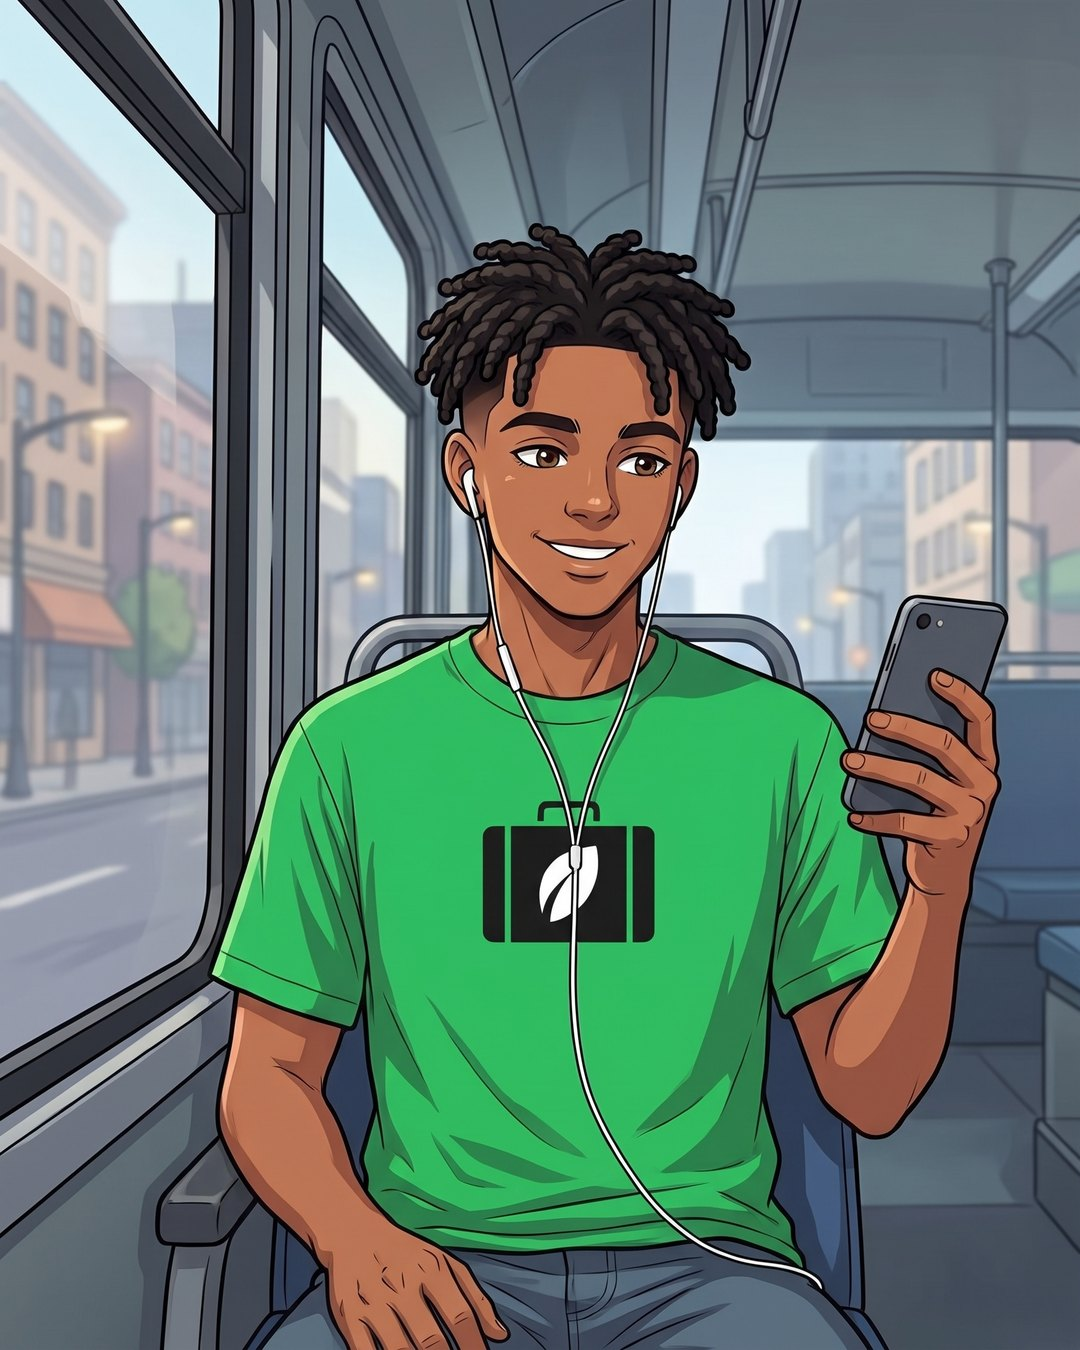
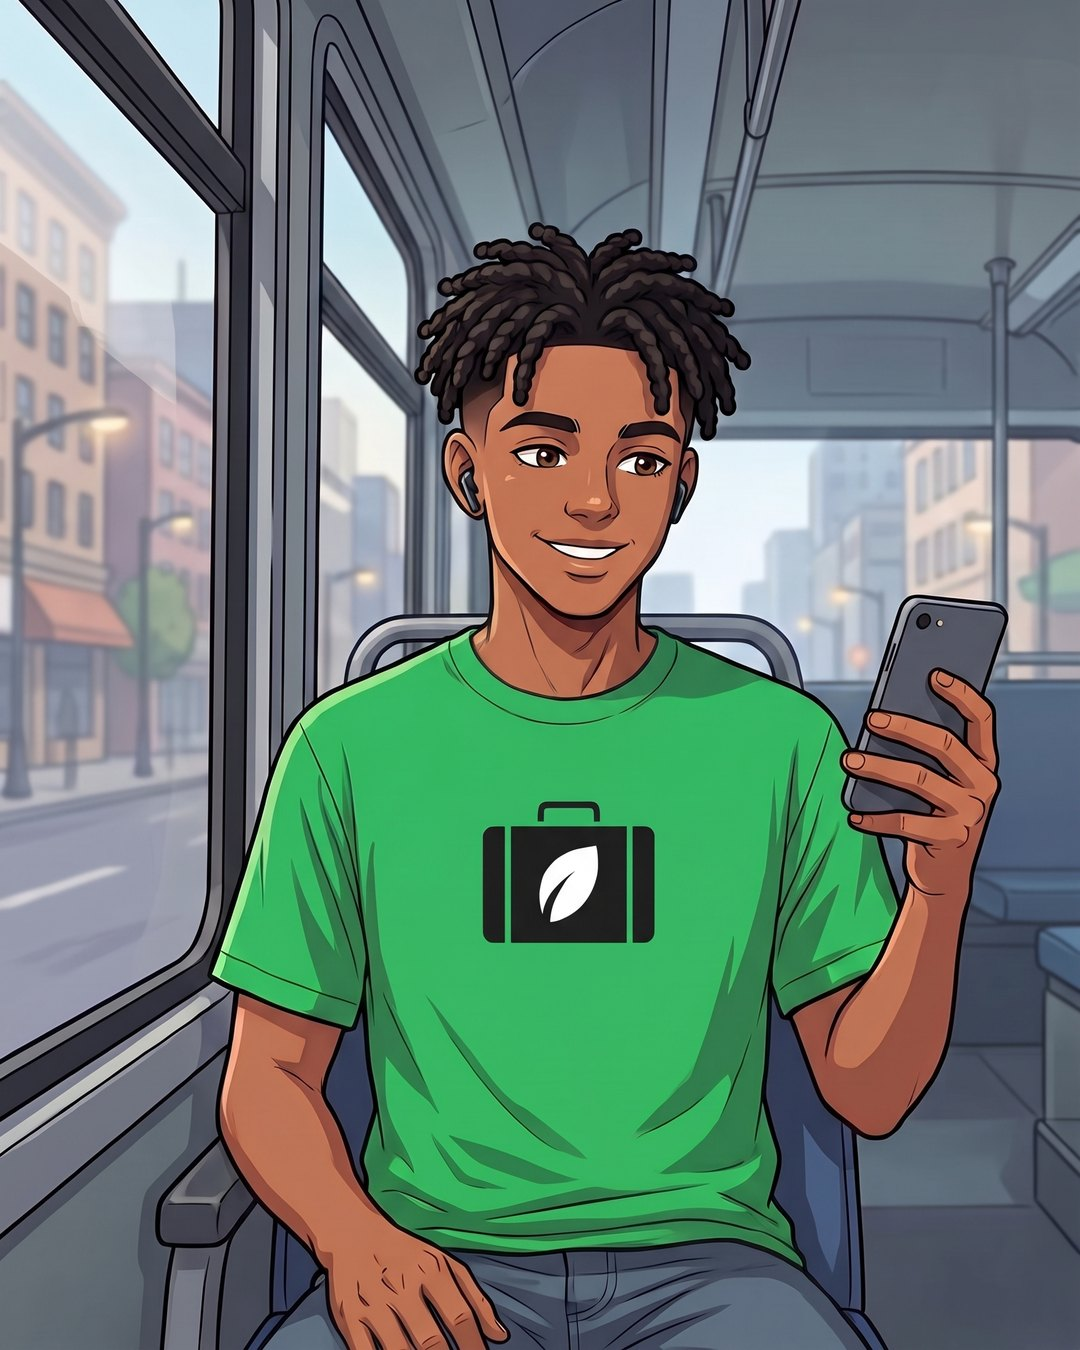
Founding 3: River on the bus with wireless earbuds (no loose cable)
Claude-Session: https://claude.ai/code/session_016TNa9UbJfSyMYLUwC33Bbw

diff --git a/docs/history/social.md b/docs/history/social.md
@@ -262,8 +262,8 @@ carousels. And then the 3rd could be our current programming... each slide is go
   registration until January 1st", four designers, four proofs on our brand. Proofs in `public/social/founding/` (brief `BRIEF.md`): A Be one of
   the first (scarcity, a clock rail), B Your week (story), C Straight to the point (direct response), D Your city (place). Sean locked all four
   ("We can lock that in as a post for founding members"), asked for the current look and a mixed cast (rule in `docs/history/guides-standards.md`),
-  then approved them with one exception, River on the bus showing his phone's screen (redrawn twice: screen hidden, then the shirt mark kept
-  clear). Thirteen new scenes in `public/social/founding/scenes/`. Copy corrections by Logan: B's calendar read Jan 1 11:59 PM ET (24 h late, now
+  then approved them with one exception, River on the bus showing his phone's screen (redrawn three times: screen hidden, the shirt mark kept
+  clear, then wireless earbuds after Sean: "His cable is not in his phone. What is it plugged into?"). Thirteen new scenes in `public/social/founding/scenes/`. Copy corrections by Logan: B's calendar read Jan 1 11:59 PM ET (24 h late, now
   12:00 AM ET); C's "Free until Jan 1" and "The door closes January 1" implied joining ends (joining stays free; Founding Member closes), now "Ends
   Jan 1", "Founding closes January 1", "Claim it now. Yours for good."; #PlantBased dropped. **Scheduled** (migration
   `20261115_founding_member_series.sql`, batch `founding-series`, files in `vegan-media/media/social/founding/<slug>/`, 39 checked): Mondays 9 AM ET,
